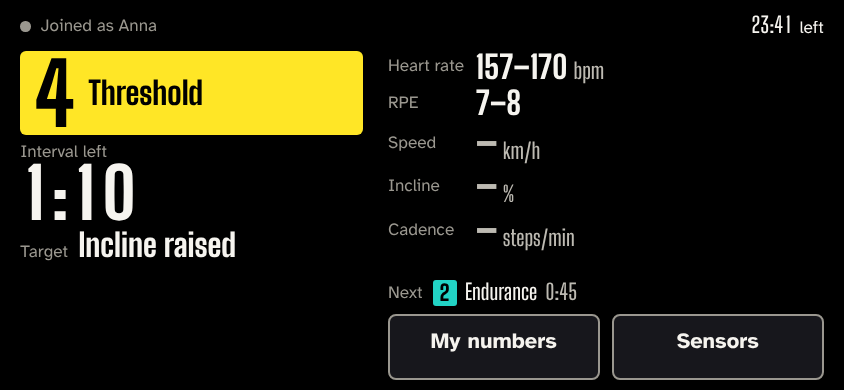
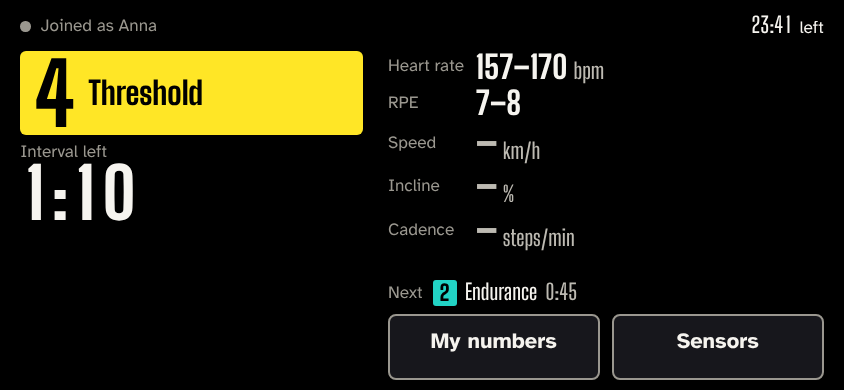
docs(design): rider target slot stays empty (G1 decided); size and citation fixes
Claude-Session: https://claude.ai/code/session_01LLHBh3xazuKpSV1STS2mcZ

Changed region(s): [[0.0308, 0.5846, 0.2773, 0.6769]]

diff --git a/docs/design/mockups/runclass-rider-missing.html b/docs/design/mockups/runclass-rider-missing.html
@@ -12,6 +12,6 @@
 </head>
 <body>
 <!-- State: the same sensors, but no value for more than 3 s. Every reading shows a grey dash with its unit, never the last number. Spec: docs/design/running-class.md. Hand-written from rider-running.html. -->
-<main class="run rider"><header class="top"><span class="link"><span class="who-t" data-tier="label" data-clamp="1">Joined as Anna</span></span><span class="ct"><span class="val" data-tier="minor"><span class="d">2</span><span class="d">3</span>:<span class="d">4</span><span class="d">1</span></span><span data-tier="label" data-lines="1">left</span></span></header><section class="gel z4"><span class="gel-num n" data-tier="gel">4</span><div class="gel-txt"><span class="gel-name n" data-tier="value" data-lines="2" data-clamp="2">Threshold</span></div></section><section class="clock"><div class="cl"><span class="lbl"><span data-tier="label" data-lines="1">Interval left</span></span><div class="count n" data-tier="hero"><span class="d">1</span>:<span class="d">1</span><span class="d">0</span></div></div><div class="song"><span data-tier="label" data-lines="1" class="lbl">Target</span><span class="when n" data-tier="value">Incline raised</span></div></section><section class="effort sens"><div class="m"><span data-tier="label" data-lines="1" class="lbl">Heart rate</span><div class="ev"><span class="n" data-tier="value">157–170</span><span class="u" data-tier="minor">bpm</span></div></div><div class="m"><span data-tier="label" data-lines="1" class="lbl">RPE</span><div class="ev"><span class="n" data-tier="value">7–8</span></div></div><div class="m"><span data-tier="label" data-lines="1" class="lbl">Speed</span><div class="rd line none"><span class="n" data-tier="read">–</span><span class="u" data-tier="minor">km/h</span></div></div><div class="m"><span data-tier="label" data-lines="1" class="lbl">Incline</span><div class="rd line none"><span class="n" data-tier="read">–</span><span class="u" data-tier="minor">%</span></div></div><div class="m"><span data-tier="label" data-lines="1" class="lbl">Cadence</span><div class="rd line none"><span class="n" data-tier="read">–</span><span class="u" data-tier="minor">steps/min</span></div></div></section><section class="coming fit-P1 fit-L1"><span data-tier="label" data-lines="1" class="lbl">Next</span><div class="next"><span class="chip z2" data-tier="minor">2</span><span class="v nm" data-tier="minor" data-clamp="1">Endurance</span><span class="v dim" data-tier="minor">0:45</span></div><span></span><div class="next"><span class="chip z5" data-tier="minor">5</span><span class="v nm" data-tier="minor" data-clamp="1">VO2 max</span><span class="v dim" data-tier="minor">3:00</span></div><span></span><div class="next"><span class="chip z3" data-tier="minor">3</span><span class="v nm" data-tier="minor" data-clamp="1">Tempo</span><span class="v dim" data-tier="minor">2:00</span></div><span></span></section><nav class="keys two" aria-label="Your numbers and sensors"><button class="key" data-action="my_numbers"><span class="kl" data-tier="minor" data-lines="2">My numbers</span></button><button class="key" data-action="sensors"><span class="kl" data-tier="minor" data-lines="2">Sensors</span></button></nav></main>
+<main class="run rider"><header class="top"><span class="link"><span class="who-t" data-tier="label" data-clamp="1">Joined as Anna</span></span><span class="ct"><span class="val" data-tier="minor"><span class="d">2</span><span class="d">3</span>:<span class="d">4</span><span class="d">1</span></span><span data-tier="label" data-lines="1">left</span></span></header><section class="gel z4"><span class="gel-num n" data-tier="gel">4</span><div class="gel-txt"><span class="gel-name n" data-tier="value" data-lines="2" data-clamp="2">Threshold</span></div></section><section class="clock"><div class="cl"><span class="lbl"><span data-tier="label" data-lines="1">Interval left</span></span><div class="count n" data-tier="hero"><span class="d">1</span>:<span class="d">1</span><span class="d">0</span></div></div><div class="song"></div></section><section class="effort sens"><div class="m"><span data-tier="label" data-lines="1" class="lbl">Heart rate</span><div class="ev"><span class="n" data-tier="value">157–170</span><span class="u" data-tier="minor">bpm</span></div></div><div class="m"><span data-tier="label" data-lines="1" class="lbl">RPE</span><div class="ev"><span class="n" data-tier="value">7–8</span></div></div><div class="m"><span data-tier="label" data-lines="1" class="lbl">Speed</span><div class="rd line none"><span class="n" data-tier="read">–</span><span class="u" data-tier="minor">km/h</span></div></div><div class="m"><span data-tier="label" data-lines="1" class="lbl">Incline</span><div class="rd line none"><span class="n" data-tier="read">–</span><span class="u" data-tier="minor">%</span></div></div><div class="m"><span data-tier="label" data-lines="1" class="lbl">Cadence</span><div class="rd line none"><span class="n" data-tier="read">–</span><span class="u" data-tier="minor">steps/min</span></div></div></section><section class="coming fit-P1 fit-L1"><span data-tier="label" data-lines="1" class="lbl">Next</span><div class="next"><span class="chip z2" data-tier="minor">2</span><span class="v nm" data-tier="minor" data-clamp="1">Endurance</span><span class="v dim" data-tier="minor">0:45</span></div><span></span><div class="next"><span class="chip z5" data-tier="minor">5</span><span class="v nm" data-tier="minor" data-clamp="1">VO2 max</span><span class="v dim" data-tier="minor">3:00</span></div><span></span><div class="next"><span class="chip z3" data-tier="minor">3</span><span class="v nm" data-tier="minor" data-clamp="1">Tempo</span><span class="v dim" data-tier="minor">2:00</span></div><span></span></section><nav class="keys two" aria-label="Your numbers and sensors"><button class="key" data-action="my_numbers"><span class="kl" data-tier="minor" data-lines="2">My numbers</span></button><button class="key" data-action="sensors"><span class="kl" data-tier="minor" data-lines="2">Sensors</span></button></nav></main>
 </body>
 </html>

diff --git a/docs/design/mockups/runclass-rider-readings.html b/docs/design/mockups/runclass-rider-readings.html
@@ -12,6 +12,6 @@
 </head>
 <body>
 <!-- State: a treadmill (speed, incline) and a foot pod (cadence) connected, all three readings under 3 s old. Numbers only: no gauge, no colour by value. Spec: docs/design/running-class.md. Hand-written from rider-running.html. -->
-<main class="run rider"><header class="top"><span class="link"><span class="who-t" data-tier="label" data-clamp="1">Joined as Anna</span></span><span class="ct"><span class="val" data-tier="minor"><span class="d">2</span><span class="d">3</span>:<span class="d">4</span><span class="d">1</span></span><span data-tier="label" data-lines="1">left</span></span></header><section class="gel z4"><span class="gel-num n" data-tier="gel">4</span><div class="gel-txt"><span class="gel-name n" data-tier="value" data-lines="2" data-clamp="2">Threshold</span></div></section><section class="clock"><div class="cl"><span class="lbl"><span data-tier="label" data-lines="1">Interval left</span></span><div class="count n" data-tier="hero"><span class="d">1</span>:<span class="d">1</span><span class="d">0</span></div></div><div class="song"><span data-tier="label" data-lines="1" class="lbl">Target</span><span class="when n" data-tier="value">Incline raised</span></div></section><section class="effort sens"><div class="m"><span data-tier="label" data-lines="1" class="lbl">Heart rate</span><div class="ev"><span class="n" data-tier="value">157–170</span><span class="u" data-tier="minor">bpm</span></div></div><div class="m"><span data-tier="label" data-lines="1" class="lbl">RPE</span><div class="ev"><span class="n" data-tier="value">7–8</span></div></div><div class="m"><span data-tier="label" data-lines="1" class="lbl">Speed</span><div class="rd line"><span class="n" data-tier="read">9.5</span><span class="u" data-tier="minor">km/h</span></div></div><div class="m"><span data-tier="label" data-lines="1" class="lbl">Incline</span><div class="rd line"><span class="n" data-tier="read">1.0</span><span class="u" data-tier="minor">%</span></div></div><div class="m"><span data-tier="label" data-lines="1" class="lbl">Cadence</span><div class="rd line"><span class="n" data-tier="read">164</span><span class="u" data-tier="minor">steps/min</span></div></div></section><section class="coming fit-P1 fit-L1"><span data-tier="label" data-lines="1" class="lbl">Next</span><div class="next"><span class="chip z2" data-tier="minor">2</span><span class="v nm" data-tier="minor" data-clamp="1">Endurance</span><span class="v dim" data-tier="minor">0:45</span></div><span></span><div class="next"><span class="chip z5" data-tier="minor">5</span><span class="v nm" data-tier="minor" data-clamp="1">VO2 max</span><span class="v dim" data-tier="minor">3:00</span></div><span></span><div class="next"><span class="chip z3" data-tier="minor">3</span><span class="v nm" data-tier="minor" data-clamp="1">Tempo</span><span class="v dim" data-tier="minor">2:00</span></div><span></span></section><nav class="keys two" aria-label="Your numbers and sensors"><button class="key" data-action="my_numbers"><span class="kl" data-tier="minor" data-lines="2">My numbers</span></button><button class="key" data-action="sensors"><span class="kl" data-tier="minor" data-lines="2">Sensors</span></button></nav></main>
+<main class="run rider"><header class="top"><span class="link"><span class="who-t" data-tier="label" data-clamp="1">Joined as Anna</span></span><span class="ct"><span class="val" data-tier="minor"><span class="d">2</span><span class="d">3</span>:<span class="d">4</span><span class="d">1</span></span><span data-tier="label" data-lines="1">left</span></span></header><section class="gel z4"><span class="gel-num n" data-tier="gel">4</span><div class="gel-txt"><span class="gel-name n" data-tier="value" data-lines="2" data-clamp="2">Threshold</span></div></section><section class="clock"><div class="cl"><span class="lbl"><span data-tier="label" data-lines="1">Interval left</span></span><div class="count n" data-tier="hero"><span class="d">1</span>:<span class="d">1</span><span class="d">0</span></div></div><div class="song"></div></section><section class="effort sens"><div class="m"><span data-tier="label" data-lines="1" class="lbl">Heart rate</span><div class="ev"><span class="n" data-tier="value">157–170</span><span class="u" data-tier="minor">bpm</span></div></div><div class="m"><span data-tier="label" data-lines="1" class="lbl">RPE</span><div class="ev"><span class="n" data-tier="value">7–8</span></div></div><div class="m"><span data-tier="label" data-lines="1" class="lbl">Speed</span><div class="rd line"><span class="n" data-tier="read">9.5</span><span class="u" data-tier="minor">km/h</span></div></div><div class="m"><span data-tier="label" data-lines="1" class="lbl">Incline</span><div class="rd line"><span class="n" data-tier="read">1.0</span><span class="u" data-tier="minor">%</span></div></div><div class="m"><span data-tier="label" data-lines="1" class="lbl">Cadence</span><div class="rd line"><span class="n" data-tier="read">164</span><span class="u" data-tier="minor">steps/min</span></div></div></section><section class="coming fit-P1 fit-L1"><span data-tier="label" data-lines="1" class="lbl">Next</span><div class="next"><span class="chip z2" data-tier="minor">2</span><span class="v nm" data-tier="minor" data-clamp="1">Endurance</span><span class="v dim" data-tier="minor">0:45</span></div><span></span><div class="next"><span class="chip z5" data-tier="minor">5</span><span class="v nm" data-tier="minor" data-clamp="1">VO2 max</span><span class="v dim" data-tier="minor">3:00</span></div><span></span><div class="next"><span class="chip z3" data-tier="minor">3</span><span class="v nm" data-tier="minor" data-clamp="1">Tempo</span><span class="v dim" data-tier="minor">2:00</span></div><span></span></section><nav class="keys two" aria-label="Your numbers and sensors"><button class="key" data-action="my_numbers"><span class="kl" data-tier="minor" data-lines="2">My numbers</span></button><button class="key" data-action="sensors"><span class="kl" data-tier="minor" data-lines="2">Sensors</span></button></nav></main>
 </body>
 </html>

diff --git a/docs/design/mockups/runclass-rider-treadmill-only.html b/docs/design/mockups/runclass-rider-treadmill-only.html
@@ -12,6 +12,6 @@
 </head>
 <body>
 <!-- State: a treadmill only. Speed and incline are shown; there is no cadence row, because no connected sensor gives it. Spec: docs/design/running-class.md. Hand-written from rider-running.html. -->
-<main class="run rider"><header class="top"><span class="link"><span class="who-t" data-tier="label" data-clamp="1">Joined as Anna</span></span><span class="ct"><span class="val" data-tier="minor"><span class="d">2</span><span class="d">3</span>:<span class="d">4</span><span class="d">1</span></span><span data-tier="label" data-lines="1">left</span></span></header><section class="gel z4"><span class="gel-num n" data-tier="gel">4</span><div class="gel-txt"><span class="gel-name n" data-tier="value" data-lines="2" data-clamp="2">Threshold</span></div></section><section class="clock"><div class="cl"><span class="lbl"><span data-tier="label" data-lines="1">Interval left</span></span><div class="count n" data-tier="hero"><span class="d">1</span>:<span class="d">1</span><span class="d">0</span></div></div><div class="song"><span data-tier="label" data-lines="1" class="lbl">Target</span><span class="when n" data-tier="value">Incline flat</span></div></section><section class="effort sens"><div class="m"><span data-tier="label" data-lines="1" class="lbl">Heart rate</span><div class="ev"><span class="n" data-tier="value">157–170</span><span class="u" data-tier="minor">bpm</span></div></div><div class="m"><span data-tier="label" data-lines="1" class="lbl">RPE</span><div class="ev"><span class="n" data-tier="value">7–8</span></div></div><div class="m"><span data-tier="label" data-lines="1" class="lbl">Speed</span><div class="rd line"><span class="n" data-tier="read">9.5</span><span class="u" data-tier="minor">km/h</span></div></div><div class="m"><span data-tier="label" data-lines="1" class="lbl">Incline</span><div class="rd line"><span class="n" data-tier="read">1.0</span><span class="u" data-tier="minor">%</span></div></div></section><section class="coming fit-P1 fit-L1"><span data-tier="label" data-lines="1" class="lbl">Next</span><div class="next"><span class="chip z2" data-tier="minor">2</span><span class="v nm" data-tier="minor" data-clamp="1">Endurance</span><span class="v dim" data-tier="minor">0:45</span></div><span></span><div class="next"><span class="chip z5" data-tier="minor">5</span><span class="v nm" data-tier="minor" data-clamp="1">VO2 max</span><span class="v dim" data-tier="minor">3:00</span></div><span></span><div class="next"><span class="chip z3" data-tier="minor">3</span><span class="v nm" data-tier="minor" data-clamp="1">Tempo</span><span class="v dim" data-tier="minor">2:00</span></div><span></span></section><nav class="keys two" aria-label="Your numbers and sensors"><button class="key" data-action="my_numbers"><span class="kl" data-tier="minor" data-lines="2">My numbers</span></button><button class="key" data-action="sensors"><span class="kl" data-tier="minor" data-lines="2">Sensors</span></button></nav></main>
+<main class="run rider"><header class="top"><span class="link"><span class="who-t" data-tier="label" data-clamp="1">Joined as Anna</span></span><span class="ct"><span class="val" data-tier="minor"><span class="d">2</span><span class="d">3</span>:<span class="d">4</span><span class="d">1</span></span><span data-tier="label" data-lines="1">left</span></span></header><section class="gel z4"><span class="gel-num n" data-tier="gel">4</span><div class="gel-txt"><span class="gel-name n" data-tier="value" data-lines="2" data-clamp="2">Threshold</span></div></section><section class="clock"><div class="cl"><span class="lbl"><span data-tier="label" data-lines="1">Interval left</span></span><div class="count n" data-tier="hero"><span class="d">1</span>:<span class="d">1</span><span class="d">0</span></div></div><div class="song"></div></section><section class="effort sens"><div class="m"><span data-tier="label" data-lines="1" class="lbl">Heart rate</span><div class="ev"><span class="n" data-tier="value">157–170</span><span class="u" data-tier="minor">bpm</span></div></div><div class="m"><span data-tier="label" data-lines="1" class="lbl">RPE</span><div class="ev"><span class="n" data-tier="value">7–8</span></div></div><div class="m"><span data-tier="label" data-lines="1" class="lbl">Speed</span><div class="rd line"><span class="n" data-tier="read">9.5</span><span class="u" data-tier="minor">km/h</span></div></div><div class="m"><span data-tier="label" data-lines="1" class="lbl">Incline</span><div class="rd line"><span class="n" data-tier="read">1.0</span><span class="u" data-tier="minor">%</span></div></div></section><section class="coming fit-P1 fit-L1"><span data-tier="label" data-lines="1" class="lbl">Next</span><div class="next"><span class="chip z2" data-tier="minor">2</span><span class="v nm" data-tier="minor" data-clamp="1">Endurance</span><span class="v dim" data-tier="minor">0:45</span></div><span></span><div class="next"><span class="chip z5" data-tier="minor">5</span><span class="v nm" data-tier="minor" data-clamp="1">VO2 max</span><span class="v dim" data-tier="minor">3:00</span></div><span></span><div class="next"><span class="chip z3" data-tier="minor">3</span><span class="v nm" data-tier="minor" data-clamp="1">Tempo</span><span class="v dim" data-tier="minor">2:00</span></div><span></span></section><nav class="keys two" aria-label="Your numbers and sensors"><button class="key" data-action="my_numbers"><span class="kl" data-tier="minor" data-lines="2">My numbers</span></button><button class="key" data-action="sensors"><span class="kl" data-tier="minor" data-lines="2">Sensors</span></button></nav></main>
 </body>
 </html>

diff --git a/docs/design/mockups/runclass-rider.html b/docs/design/mockups/runclass-rider.html
@@ -11,7 +11,7 @@
 <link rel="stylesheet" href="runclass.css">
 </head>
 <body>
-<!-- State: running class, incline raised, no sensor connected. The effort rows are the zone's heart rate and RPE; no position, no cadence; the incline target is text in the clock's slot. Spec: docs/design/running-class.md. Hand-written from rider-running.html. -->
-<main class="run rider"><header class="top"><span class="link"><span class="who-t" data-tier="label" data-clamp="1">Joined as Anna</span></span><span class="ct"><span class="val" data-tier="minor"><span class="d">2</span><span class="d">3</span>:<span class="d">4</span><span class="d">1</span></span><span data-tier="label" data-lines="1">left</span></span></header><section class="gel z4"><span class="gel-num n" data-tier="gel">4</span><div class="gel-txt"><span class="gel-name n" data-tier="value" data-lines="2" data-clamp="2">Threshold</span></div></section><section class="clock"><div class="cl"><span class="lbl"><span data-tier="label" data-lines="1">Interval left</span></span><div class="count n" data-tier="hero"><span class="d">1</span>:<span class="d">1</span><span class="d">0</span></div></div><div class="song"><span data-tier="label" data-lines="1" class="lbl">Target</span><span class="when n" data-tier="value">Incline raised</span></div></section><section class="effort sens"><div class="m"><span data-tier="label" data-lines="1" class="lbl">Heart rate</span><div class="ev"><span class="n" data-tier="value">157–170</span><span class="u" data-tier="minor">bpm</span></div></div><div class="m"><span data-tier="label" data-lines="1" class="lbl">RPE</span><div class="ev"><span class="n" data-tier="value">7–8</span></div></div></section><section class="coming"><span data-tier="label" data-lines="1" class="lbl">Next</span><div class="next"><span class="chip z2" data-tier="minor">2</span><span class="v nm" data-tier="minor" data-clamp="1">Endurance</span><span class="v dim" data-tier="minor">0:45</span></div><span></span><div class="next"><span class="chip z5" data-tier="minor">5</span><span class="v nm" data-tier="minor" data-clamp="1">VO2 max</span><span class="v dim" data-tier="minor">3:00</span></div><span></span><div class="next"><span class="chip z3" data-tier="minor">3</span><span class="v nm" data-tier="minor" data-clamp="1">Tempo</span><span class="v dim" data-tier="minor">2:00</span></div><span></span></section><nav class="keys two" aria-label="Your numbers and sensors"><button class="key" data-action="my_numbers"><span class="kl" data-tier="minor" data-lines="2">My numbers</span></button><button class="key" data-action="sensors"><span class="kl" data-tier="minor" data-lines="2">Connect a sensor</span></button></nav></main>
+<!-- State: running class, no sensor connected. The target slot is empty (G1: the live contract carries no incline). The effort rows are the zone's heart rate and RPE; no position, no cadence. Spec: docs/design/running-class.md. Hand-written from rider-running.html. -->
+<main class="run rider"><header class="top"><span class="link"><span class="who-t" data-tier="label" data-clamp="1">Joined as Anna</span></span><span class="ct"><span class="val" data-tier="minor"><span class="d">2</span><span class="d">3</span>:<span class="d">4</span><span class="d">1</span></span><span data-tier="label" data-lines="1">left</span></span></header><section class="gel z4"><span class="gel-num n" data-tier="gel">4</span><div class="gel-txt"><span class="gel-name n" data-tier="value" data-lines="2" data-clamp="2">Threshold</span></div></section><section class="clock"><div class="cl"><span class="lbl"><span data-tier="label" data-lines="1">Interval left</span></span><div class="count n" data-tier="hero"><span class="d">1</span>:<span class="d">1</span><span class="d">0</span></div></div><div class="song"></div></section><section class="effort sens"><div class="m"><span data-tier="label" data-lines="1" class="lbl">Heart rate</span><div class="ev"><span class="n" data-tier="value">157–170</span><span class="u" data-tier="minor">bpm</span></div></div><div class="m"><span data-tier="label" data-lines="1" class="lbl">RPE</span><div class="ev"><span class="n" data-tier="value">7–8</span></div></div></section><section class="coming"><span data-tier="label" data-lines="1" class="lbl">Next</span><div class="next"><span class="chip z2" data-tier="minor">2</span><span class="v nm" data-tier="minor" data-clamp="1">Endurance</span><span class="v dim" data-tier="minor">0:45</span></div><span></span><div class="next"><span class="chip z5" data-tier="minor">5</span><span class="v nm" data-tier="minor" data-clamp="1">VO2 max</span><span class="v dim" data-tier="minor">3:00</span></div><span></span><div class="next"><span class="chip z3" data-tier="minor">3</span><span class="v nm" data-tier="minor" data-clamp="1">Tempo</span><span class="v dim" data-tier="minor">2:00</span></div><span></span></section><nav class="keys two" aria-label="Your numbers and sensors"><button class="key" data-action="my_numbers"><span class="kl" data-tier="minor" data-lines="2">My numbers</span></button><button class="key" data-action="sensors"><span class="kl" data-tier="minor" data-lines="2">Connect a sensor</span></button></nav></main>
 </body>
 </html>

diff --git a/docs/design/running-class.md b/docs/design/running-class.md
@@ -20,10 +20,11 @@ A class with `sport` `running` (ADR 0015 section 1) has per interval the zone, i
 and `incline` (`flat` or `raised`). It has no cadence, position, pattern or test. Against a cycling
 class, every screen changes in the same three ways and in no other:
 
-1. **The incline target replaces cadence and position.** Where the cycling screen has the Cadence
+1. **The incline target replaces cadence and position** (on the room screen, `/play` and the app; not on the rider page, see G1). Where the cycling screen has the Cadence
    and Position metrics, the running screen has one metric: label "Target", value
-   **"Incline raised"** or **"Incline flat"**, in the same value tier (`--t-value` on the room
-   screen, the metrics' own size on `/play`). Items 3 of room-2d.md's "Content" (cadence and
+   **"Incline raised"** or **"Incline flat"**, in the value tier (`--t-value`, 8.4 vh on the room
+   screen at 3:2 and wider, reduced to 7.4 vh there so the text fits: see "Size"; the metrics' own
+   size on `/play`). Items 3 of room-2d.md's "Content" (cadence and
    position) and the cadence and position of the next row become the incline target. A running
    interval has no position pattern, so the pattern forms never occur.
 2. **Nothing else is added or moved.** The countdown, the zone, the song's BPM, the cue, the next
@@ -62,15 +63,15 @@ column has (the cycling column holds three metrics; this one holds two).
 
 The page of [rider.md](rider.md) in a running class: the gel, the countdown, the effort rows the
 zone has (heart rate and RPE in the mock-ups), the next rows and the keys. **No position** and **no
-cadence target**. The incline target is text in the clock's right-hand slot where the cycling page
-has Position: label "Target", value "Incline raised" at the value tier (3.7 % / 6.7 % of the
-viewport height, portrait / landscape).
+cadence target**. The clock's right-hand slot, where the cycling page has Position, is **empty**, as
+for a null position: no "Target", no incline text.
 
-**Contract gap G1 (not decided here).** `rider_state` and `companion_state` carry no incline today,
-and the plain word "incline" is on the rule guards' word list (companion.md, "Contract gaps"). The
-mock-up shows the slot filled, as it would be with a field. Until the contract lane adds one,
-through the route companion.md describes and with every guard list unchanged, the slot is empty
-exactly as it is for a null position, and the rest of the page is as mocked. The handlebar
+**Decided (G1, Architect).** `rider_state` and `companion_state` carry no incline, and the plain
+word "incline" is on the rule guards' word list (companion.md, "Contract gaps"). The slot therefore
+stays empty until a future contract change adds a field, through the route companion.md describes
+and with every guard list unchanged. The mock-ups show the slot empty and are what is built. *After
+a future contract change only (not a state to build):* the slot would read label "Target", value
+"Incline raised" or "Incline flat" at the rider.md value tier. The handlebar
 companion ([companion.md](companion.md)) shows nothing of cadence, position or incline today and
 is unchanged for a running class ([mock-up](mockups/runclass-companion.html)): the cue carries what
 the author wrote.
@@ -98,14 +99,14 @@ page's existing keys: **Connect a sensor** when none is connected, **Sensors** w
   The class's incline is "raised" or "flat", not a number, so a reading is not set against it.
 - **Missing.** A reading with no value for more than 3 s shows a grey dash "–" (`--light-2`) with
   its unit kept, never the last number. A shown reading changes at most once a second, as a step.
-- Units are words the rider knows: "km/h", "%", "steps/min". No pace, no advice (rule 8).
+- Units are words the rider knows: "km/h", "%", "steps/min". No pace: the unit is km/h only, as settled in issue #769. No advice.
 
 | State | What shows | Mock-up |
 |---|---|---|
 | No sensor | The class view; the key says "Connect a sensor"; no reading rows | [html](mockups/runclass-rider.html), [390 x 844](mockups/runclass-rider-390x844.png), [844 x 390](mockups/runclass-rider-844x390.png) |
 | Treadmill and foot pod, live | Speed, Incline, Cadence as numbers | [html](mockups/runclass-rider-readings.html), [390 x 844](mockups/runclass-rider-readings-390x844.png), [844 x 390](mockups/runclass-rider-readings-844x390.png), [360 x 640](mockups/runclass-rider-readings-360x640.png), [640 x 360](mockups/runclass-rider-readings-640x360.png) |
 | Readings missing | Each of the three: a grey dash and its unit | [html](mockups/runclass-rider-missing.html), [390 x 844](mockups/runclass-rider-missing-390x844.png), [844 x 390](mockups/runclass-rider-missing-844x390.png) |
-| Treadmill only | Speed and Incline; no Cadence row; target "Incline flat" | [html](mockups/runclass-rider-treadmill-only.html), [390 x 844](mockups/runclass-rider-treadmill-only-390x844.png), [844 x 390](mockups/runclass-rider-treadmill-only-844x390.png) |
+| Treadmill only | Speed and Incline; no Cadence row | [html](mockups/runclass-rider-treadmill-only.html), [390 x 844](mockups/runclass-rider-treadmill-only-390x844.png), [844 x 390](mockups/runclass-rider-treadmill-only-844x390.png) |
 
 A sensor that is lost, refused or unsupported uses sensors.md's plates and words; the reading rows
 show dashes. **Fitting:** as sensors.md ("Fitting"), the next rows give way (three, two, one) before
@@ -120,8 +121,8 @@ CI screenshots are held to the same numbers, every floored text at least 5 % ove
 | Check | Requirement | Mock-up result |
 |---|---|---|
 | RC1. Incline target, room | Cap height at least **5.5 %** of the screen height at every size, and one line | 6.0 % at 1920 x 1080, 1280 x 720, 1280 x 800, 1440 x 1080 and 1024 x 768 |
-| RC2. Incline target, `/play` | At least the metrics' own tier: **3.7 %** portrait, **6.0 %** landscape; never under 21 px portrait, 22 px landscape | 3.7 % (32 px) at 390 x 844, 3.7 % (24 px) at 360 x 640, 6.0 % (23 px) at 844 x 390, 6.0 % (22 px) at 640 x 360 |
-| RC3. Incline target, rider page | The value tier of rider.md R1: **3.4 % / 6 %**, 21 px | 3.7 % / 6.7 % |
+| RC2. Incline target, `/play` | play.md's P1 values floor: **3.4 % / 6 %** of the viewport height, portrait / landscape, 21 px | 3.7 % (32 px) at 390 x 844, 3.7 % (24 px) at 360 x 640, 3.7 % (38 px) at 768 x 1024; 6.0 % (23 px) at 844 x 390, 6.0 % (22 px) at 640 x 360, 6.0 % (46 px) at 1024 x 768 |
+| RC3. Target slot, rider page | Empty: no text, no element, no gap filled by another text; the countdown and Position-less clock read as for a null position | empty in every `runclass-rider*` shot |
 | RC4. Readings | The sensors.md `read` tier: **4.6 % / 7.4 %**, 29 px; units at the next-row tier (1.9 % / 3.4 %) | 5.6 % (48 px) / 8.9 % (35 px); at 360 x 640 5.9 % (37 px); at 640 x 360 8.9 % (32 px); units 2.0 % / 3.7 % |
 | RC5. Contrast | At least **7 : 1** for every text: white 19.1 : 1, units 10.8 : 1, labels 7.2 : 1 on black; the gel's ink on its zone 16.6 : 1 for zone 4, and at least 7 : 1 on every zone gel (system.md) | all met; a missing reading's dash is `--light-2`, 10.8 : 1 |
 | RC6. The zone | Number, name and colour together: the gel and every next chip carry the number; the gel and next row carry the name; the zone's colour is on the zone only | present in every mock-up |

diff --git a/docs/design/rider.md b/docs/design/rider.md
@@ -328,10 +328,9 @@ rendered as text only; the page sends `hello` and nothing else after joining.
 
 ## A running class (issue #769, ADR 0015)
 
-In a running class the page has no position and no cadence target; the incline target is text in
-the clock's right-hand slot ("Target", "Incline raised" or "Incline flat", the value tier, 3.7 % /
-6.7 %), which needs a field the live contract does not carry yet (running-class.md, G1: empty like a
-null position until then). A treadmill's speed and incline and a foot pod's cadence appear as
+In a running class the page has no position and no cadence target; the clock's right-hand slot is empty,
+as for a null position, because the live contract carries no incline (decided, running-class.md, G1:
+it stays empty until a future contract change adds a field). A treadmill's speed and incline and a foot pod's cadence appear as
 numbers, one line each, under the effort rows: no gauge, no colour by value, a grey dash when older
 than 3 s. Rows, states, numbers and mock-ups: [running-class.md](running-class.md)
 (`runclass-rider*`); the sheet, plates and lost state are [sensors.md](sensors.md)'s.

diff --git a/docs/design/room-2d.md b/docs/design/room-2d.md
@@ -903,8 +903,8 @@ The state with the band hidden is the state mock-up itself (for example
 
 For a class with `sport` `running` the screen has one change: the Cadence and Position metrics
 (item 3 of "Content") become one metric, label "Target", value **"Incline raised"** or **"Incline
-flat"** in the metrics column at `--t-value` (7.4 vh, cap height 6.0 %, at 3:2 and wider so that
-it fits the 38 vh column; the row's own size at 3:2 and narrower), and the next row ends with the
+flat"** in the metrics column at `--t-value` (8.4 vh), reduced to 7.4 vh (cap height 6.0 %) at 3:2 and
+wider so that it fits the 38 vh column (the row's own size at 3:2 and narrower), and the next row ends with the
 next interval's incline in words instead of its cadence and position. No cadence gauge, no seated or
 standing cue, no position pattern. Every other item, size and state is as above; the zone stays a
 number, a name and a colour, and the scene's look and inputs do not change for a running class.
